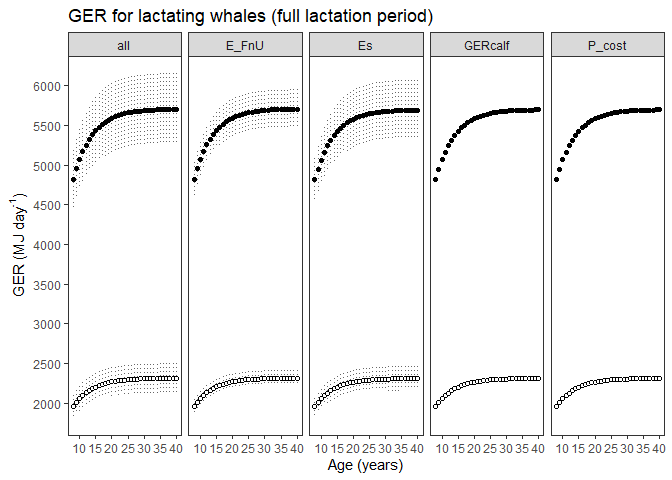
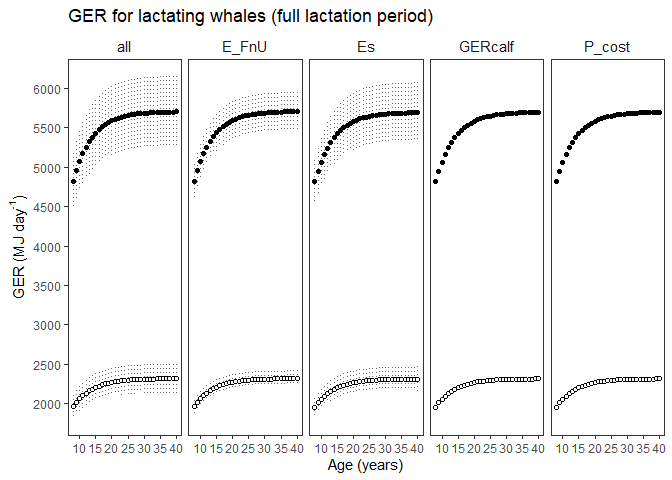
minor plot edits for aesthetics

diff --git a/gross_energetic_reqs/GER_sensanalysis_Es_source_preg_lact.md b/gross_energetic_reqs/GER_sensanalysis_Es_source_preg_lact.md
@@ -41,18 +41,7 @@ A_cost_reference <- as_tibble(
   )
   )
 )
-```
 
-    ## Rows: 60 Columns: 14
-    ## ── Column specification ────────────────────────────────────────────────────────
-    ## Delimiter: ","
-    ## chr (5): Lifestage, Description, Activity_stages, source_no_days, source_bpm
-    ## dbl (9): ID, no_days, bpm, se_bpm, age_yrs, age_yrs_min, age_yrs_max, pct_O2...
-    ## 
-    ## ℹ Use `spec()` to retrieve the full column specification for this data.
-    ## ℹ Specify the column types or set `show_col_types = FALSE` to quiet this message.
-
-``` r
 kable(A_cost_reference)
 ```
 
@@ -170,18 +159,8 @@ P_cost_table <- as_tibble(
   )
   )
 ) 
-```
 
-    ## Rows: 39 Columns: 18
-    ## ── Column specification ────────────────────────────────────────────────────────
-    ## Delimiter: ","
-    ## chr  (1): sex
-    ## dbl (17): age_mth, age_yrs, mean_masschange, sd_masschange, mean_P, sd_P, qu...
-    ## 
-    ## ℹ Use `spec()` to retrieve the full column specification for this data.
-    ## ℹ Specify the column types or set `show_col_types = FALSE` to quiet this message.
 
-``` r
 #P_cost_table <- P_cost_table %>% dplyr::filter(age_yrs >= 0)
 kable(head(P_cost_table))
 ```
@@ -209,18 +188,8 @@ P_cost_table_preg  <-  as_tibble(
   )
   )
 )
-```
 
-    ## Rows: 68 Columns: 10
-    ## ── Column specification ────────────────────────────────────────────────────────
-    ## Delimiter: ","
-    ## chr (1): sex
-    ## dbl (9): age_yrs, mean_masschange, sd_masschange, mean_P, sd_P, p_lipid, p_p...
-    ## 
-    ## ℹ Use `spec()` to retrieve the full column specification for this data.
-    ## ℹ Specify the column types or set `show_col_types = FALSE` to quiet this message.
 
-``` r
 P_cost_table_preg$Ts <-  396
 
 P_cost_table_lact <- as_tibble(
@@ -236,18 +205,7 @@ P_cost_table_lact <- as_tibble(
   )
   )
 )
-```
 
-    ## Rows: 68 Columns: 10
-    ## ── Column specification ────────────────────────────────────────────────────────
-    ## Delimiter: ","
-    ## chr (1): sex
-    ## dbl (9): age_yrs, mean_masschange, sd_masschange, mean_P, sd_P, p_lipid, p_p...
-    ## 
-    ## ℹ Use `spec()` to retrieve the full column specification for this data.
-    ## ℹ Specify the column types or set `show_col_types = FALSE` to quiet this message.
-
-``` r
 P_cost_table_lact$Ts <-  365
 
 Es_preg_table <- as_tibble(
@@ -261,18 +219,6 @@ Es_preg_table <- as_tibble(
   )
   )
 )
-```
-
-    ## Rows: 272 Columns: 8
-    ## ── Column specification ────────────────────────────────────────────────────────
-    ## Delimiter: ","
-    ## chr (2): Lifestage, MC_variable
-    ## dbl (6): age_yrs, no_days, Es, Es_sd, Es_perday, Es_sd_perday
-    ## 
-    ## ℹ Use `spec()` to retrieve the full column specification for this data.
-    ## ℹ Specify the column types or set `show_col_types = FALSE` to quiet this message.
-
-``` r
 kable(head(Es_preg_table))
 ```
 
@@ -297,18 +243,8 @@ Es_lact_table <- as_tibble(
   )
   )
 )
-```
 
-    ## Rows: 272 Columns: 8
-    ## ── Column specification ────────────────────────────────────────────────────────
-    ## Delimiter: ","
-    ## chr (2): Lifestage, MC_variable
-    ## dbl (6): age_yrs, no_days, Es, Es_sd, Es_perday, Es_sd_perday
-    ## 
-    ## ℹ Use `spec()` to retrieve the full column specification for this data.
-    ## ℹ Specify the column types or set `show_col_types = FALSE` to quiet this message.
 
-``` r
 kable(head(Es_lact_table))
 ```
 
@@ -337,17 +273,8 @@ mass_table <- as_tibble(
   )
   )
 )
-```
 
-    ## Rows: 173 Columns: 9
-    ## ── Column specification ────────────────────────────────────────────────────────
-    ## Delimiter: ","
-    ## dbl (9): age_yrs, mean_mass, sd_mass, mean_lwr, mean_upr, quant025, quant975...
-    ## 
-    ## ℹ Use `spec()` to retrieve the full column specification for this data.
-    ## ℹ Specify the column types or set `show_col_types = FALSE` to quiet this message.
 
-``` r
 mean_masschange <- as_tibble(
   read_csv("data/mean_masschange.csv"),
   col_types = (list(cols(age_yrs = col_double(),
@@ -359,18 +286,8 @@ mean_masschange <- as_tibble(
   )
   )
 )
-```
 
-    ## Rows: 39 Columns: 5
-    ## ── Column specification ────────────────────────────────────────────────────────
-    ## Delimiter: ","
-    ## chr (1): sex
-    ## dbl (4): age_yrs, mean_masschange, sd_masschange, age_mth
-    ## 
-    ## ℹ Use `spec()` to retrieve the full column specification for this data.
-    ## ℹ Specify the column types or set `show_col_types = FALSE` to quiet this message.
 
-``` r
 mean_masschange <- mean_masschange %>% dplyr::filter(age_yrs >=0)
 kable(head(mean_masschange))
 ```
@@ -395,18 +312,7 @@ mean_masschange_peryear <- as_tibble(
   )
   )
 )
-```
 
-    ## Rows: 228 Columns: 4
-    ## ── Column specification ────────────────────────────────────────────────────────
-    ## Delimiter: ","
-    ## chr (1): sex
-    ## dbl (3): age_yrs, mean_masschange, sd_masschange
-    ## 
-    ## ℹ Use `spec()` to retrieve the full column specification for this data.
-    ## ℹ Specify the column types or set `show_col_types = FALSE` to quiet this message.
-
-``` r
 mean_masschange_peryear <- mean_masschange_peryear %>% dplyr::filter(age_yrs >= 0)
 kable(head(mean_masschange_peryear))
 ```
@@ -432,18 +338,7 @@ age_yr_tibble <- as_tibble(
   )
   )
 )
-```
 
-    ## Rows: 25 Columns: 5
-    ## ── Column specification ────────────────────────────────────────────────────────
-    ## Delimiter: ","
-    ## chr (1): month
-    ## dbl (4): no_days_in_mth, age_mth, no_days_cumul, age_yrs
-    ## 
-    ## ℹ Use `spec()` to retrieve the full column specification for this data.
-    ## ℹ Specify the column types or set `show_col_types = FALSE` to quiet this message.
-
-``` r
 kable(age_yr_tibble)
 ```
 
@@ -513,18 +408,8 @@ TotalGER_birth_to_weaning_tibble <- as_tibble(
                     Total_GER_sd = col_double(), 
                     details = col_character()
   )))
-```
 
-    ## Rows: 3 Columns: 5
-    ## ── Column specification ────────────────────────────────────────────────────────
-    ## Delimiter: ","
-    ## chr (3): age_range, sex, details
-    ## dbl (2): Total_GER, Total_GER_sd
-    ## 
-    ## ℹ Use `spec()` to retrieve the full column specification for this data.
-    ## ℹ Specify the column types or set `show_col_types = FALSE` to quiet this message.
 
-``` r
 kable(TotalGER_birth_to_weaning_tibble)
 ```
 
@@ -859,8 +744,10 @@ predict_GER_table_sensAnalysis_preg %>%
 ```
 
 ``` r
+predict_GER_table_sensAnalysis_preg <- read_csv("data/predict_GER_table_sensAnalysis_preg.csv")
+
 plot_predict_GER_sensAnalysis_preg <- predict_GER_table_sensAnalysis_preg %>%
-  filter(age_yrs<=40) %>% 
+  filter(age_yrs<=30) %>% 
   ggplot() +
   geom_errorbar(aes(x = age_yrs, 
                     ymin = mean_GER - GER_sd, 
@@ -879,12 +766,16 @@ plot_predict_GER_sensAnalysis_preg <- predict_GER_table_sensAnalysis_preg %>%
   xlab("Age (years)") +
   ylab(bquote('GER (MJ day '^'-1'*')')) +
   scale_x_continuous(breaks = scales::pretty_breaks(n = 10), 
-                     limits = c(8, 40)) +  # max x-axis 30 yrs. 
-  scale_y_continuous(breaks = scales::pretty_breaks(n = 8)
+                     limits = c(8, 30)) +  # max x-axis 30 yrs. 
+  scale_y_continuous(breaks = scales::pretty_breaks(n = 8),
+                     labels = comma
                      #limits = c(0,max(plot_predict_GER_sensAnalysis_preg$quant975_foraging))
   ) +
   theme_bw() +
-  theme(panel.grid = element_blank())
+  theme(panel.grid = element_blank())+
+  theme(strip.background =element_rect(fill="transparent",
+                                       colour = "transparent"))+
+  theme(strip.text = element_text(size = rel(1)))
 
 
 plot_predict_GER_sensAnalysis_preg              
@@ -1152,8 +1043,10 @@ predict_GER_table_sensAnalysis_lact %>% write_csv("data/predict_GER_table_sensAn
 ```
 
 ``` r
+predict_GER_table_sensAnalysis_lact <- read_csv("data/predict_GER_table_sensAnalysis_lact.csv")
+
 plot_predict_GER_table_sensAnalysis_lact <- predict_GER_table_sensAnalysis_lact %>%
-  filter(age_yrs<=40) %>% 
+  filter(age_yrs<=30) %>% 
   ggplot() +
   geom_errorbar(aes(x = age_yrs, 
                     ymin = mean_GER - GER_sd, 
@@ -1170,8 +1063,8 @@ plot_predict_GER_table_sensAnalysis_lact <- predict_GER_table_sensAnalysis_lact 
   facet_grid(~MC_variable)+
 xlab("Age (years)") +
   ylab(bquote('GER (MJ day '^'-1'*')')) +
-  scale_x_continuous(breaks = scales::pretty_breaks(n = 10), 
-                     limits = c(8, 40)) +  # max x-axis 30 yrs. 
+  scale_x_continuous(breaks = scales::pretty_breaks(n = 5), 
+                     limits = c(8, 30)) +  # max x-axis 30 yrs. 
   scale_y_continuous(breaks = scales::pretty_breaks(n = 8)
                      #limits = c(0, max(predict_GER_table_lact$quant975_foraging))
   ) +

diff --git a/gross_energetic_reqs/GER_birth_to_weaning_9.6mths.md b/gross_energetic_reqs/GER_birth_to_weaning_9.6mths.md
@@ -1,4 +1,4 @@
-GER_birth_to_weaning_9.6mths
+Total Gross Energy Requirements for calves from birth to weaning
 ================
 Selina Agbayani
 01 August, 2025
@@ -22,18 +22,6 @@ datapath
 ``` r
 #read in GER phase 1 table to calculate total GER from birth to weaning 
 predict_GER_table_phase1_permth<- read_csv("data/predict_GER_table_sensAnalysis_phase1_permth_source_bpm.csv")
-```
-
-    ## Rows: 48 Columns: 23
-    ## ── Column specification ────────────────────────────────────────────────────────
-    ## Delimiter: ","
-    ## chr  (3): sex, MC_variable, pct_unit
-    ## dbl (20): phase, age_yrs, mean_GER, GER_sd, quant025, quant975, GER_foraging...
-    ## 
-    ## ℹ Use `spec()` to retrieve the full column specification for this data.
-    ## ℹ Specify the column types or set `show_col_types = FALSE` to quiet this message.
-
-``` r
 predict_GER_table_phase1_permth <-  predict_GER_table_phase1_permth %>% filter(age_mth <= 10 & MC_variable == "all" & sex == "N/A") %>% 
    select(phase, age_yrs,age_mth, sex, mean_GER, GER_sd, Ts)
 ```
@@ -219,29 +207,9 @@ kable(TotalGER_birth_to_weaning_tibble)
 
 ``` r
 TotalGER_birth_to_weaning_tibble %>% write_csv("data/TotalGER_birth_to_weaning_tibble.csv", na = "", append = FALSE)
-
-
-TotalGER_birth_to_weaning_plot <- TotalGER_birth_to_weaning_tibble %>% 
-  ggplot()+
-  geom_errorbar(aes(x = age_range, 
-                    ymin = Total_GER - Total_GER_sd, 
-                    ymax = Total_GER + Total_GER_sd), 
-                width=0, linetype = 1,color="black") + 
-  geom_point(aes(x = age_range, y= Total_GER)) +
-  scale_y_continuous(breaks = scales::pretty_breaks(n = 8))+
-  ggtitle("Total GER from birth to weaning, taking into account foraging time for nursing mother")+
-  theme_bw() +
-  theme(panel.grid = element_blank())
-
-
-TotalGER_birth_to_weaning_plot
 ```
 
-![](GER_birth_to_weaning_9.6mths_files/figure-gfm/GER_birth_to_weaning-1.png)<!-- -->
+**Total GER from birth to weaning, taking into account foraging time for
+nursing mother.**
 
-``` r
-# 
-# GERcalf0to9.6mths_tibble  <-  TotalGER_0to9.6mth_tibble %>% filter(sex == "N/A")
-# GERcalf0to9.6mths <- GERcalf0to9.6mths_tibble$Total_GER
-# GERcalf0to9.6mths_sd <- GERcalf0to9.6mths_tibble$Total_GER_sd
-```
+![](GER_birth_to_weaning_9.6mths_files/figure-gfm/plot-1.png)<!-- -->

diff --git a/gross_energetic_reqs/GER_sensanalysis_Es_source_preg_lact_classic.md b/gross_energetic_reqs/GER_sensanalysis_Es_source_preg_lact_classic.md
@@ -872,6 +872,19 @@ predict_GER_table_sensAnalysis_preg_only %>%
 ```
 
 ``` r
+predict_GER_table_sensAnalysis_preg_only <- read_csv("data/predict_GER_table_sensAnalysis_preg_ONLY.csv")
+```
+
+    ## Rows: 408 Columns: 22
+    ## ── Column specification ────────────────────────────────────────────────────────
+    ## Delimiter: ","
+    ## chr  (2): phase, MC_variable
+    ## dbl (20): age_yrs, mean_GER, GER_sd, quant025, quant975, GER_foraging, sd_fo...
+    ## 
+    ## ℹ Use `spec()` to retrieve the full column specification for this data.
+    ## ℹ Specify the column types or set `show_col_types = FALSE` to quiet this message.
+
+``` r
 plot_predict_GER_sensAnalysis_preg_only <- predict_GER_table_sensAnalysis_preg_only%>%
   #dplyr::filter(sex=="Female") %>% 
   ggplot() +
@@ -893,11 +906,15 @@ plot_predict_GER_sensAnalysis_preg_only <- predict_GER_table_sensAnalysis_preg_o
   ylab(bquote('GER (MJ day '^'-1'*')')) +
   scale_x_continuous(breaks = scales::pretty_breaks(n = 10), 
                      limits = c(8, 40)) +  # max x-axis 30 yrs. 
-  scale_y_continuous(breaks = scales::pretty_breaks(n = 8)
+  scale_y_continuous(breaks = scales::pretty_breaks(n = 8),
+                     labels = comma
                      #limits = c(0,max(plot_predict_GER_sensAnalysis_preg$quant975_foraging))
   ) +
   theme_bw() +
-  theme(panel.grid = element_blank())
+  theme(panel.grid = element_blank())+
+  theme(strip.background =element_rect(fill="transparent",
+                                       colour = "transparent"))+
+  theme(strip.text = element_text(size = rel(1)))
 
 
 plot_predict_GER_sensAnalysis_preg_only              
@@ -1195,7 +1212,12 @@ xlab("Age (years)") +
                      #limits = c(0, max(predict_GER_table_lact$quant975_foraging))
   ) +
   theme_bw() +
-  theme(panel.grid = element_blank())
+  theme(panel.grid = element_blank())+
+  theme(panel.grid = element_blank())+
+  theme(strip.background =element_rect(fill="transparent",
+                                       colour = "transparent"))+
+  theme(strip.text = element_text(size = rel(1)))
+
 
 
 plot_predict_GER_table_sensAnalysis_lact_all
